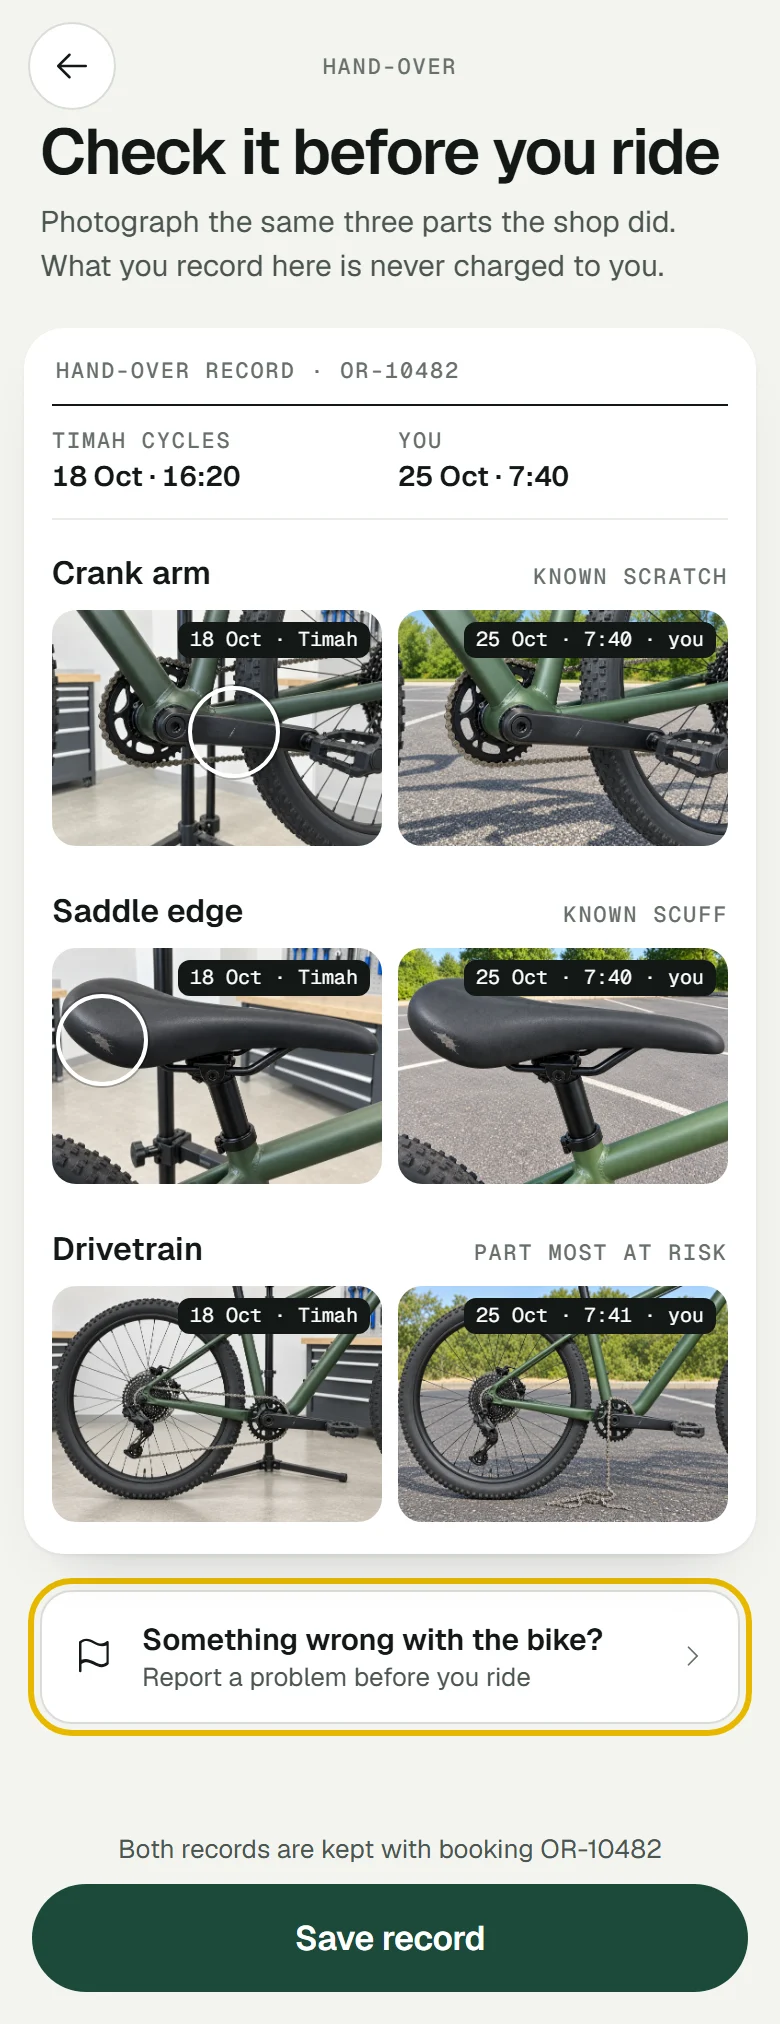
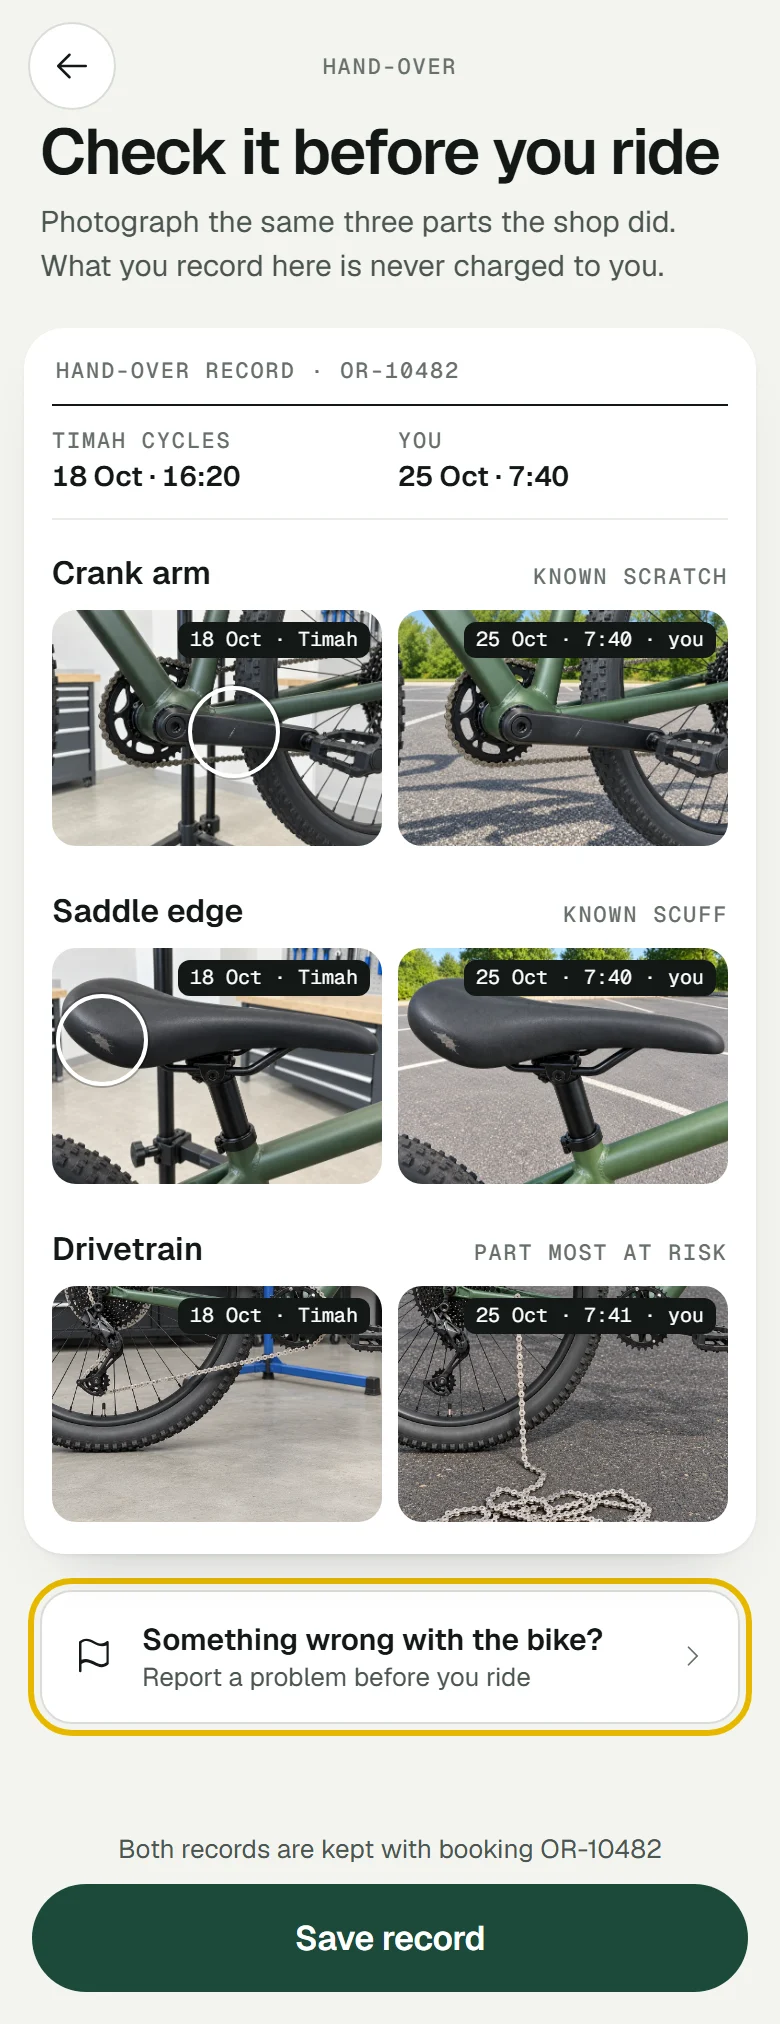
Test site: a drivetrain pair with the chain heap in plain view, hand-cropped for the slots

Changed region(s): [[0.0615, 0.6225, 0.9538, 0.7782]]

diff --git a/app/src/abtest/story.ts b/app/src/abtest/story.ts
@@ -1,10 +1,12 @@
 import { PARTS, type Part, type PartId } from '../pages/11-handover-check/pieces'
 import shopCrank from '@photos/_abtest/assets/shop-crank.webp'
 import shopSaddle from '@photos/_abtest/assets/shop-saddle.webp'
-import shopDrive from '@photos/_abtest/assets/shop-drive.webp'
+import shopDrive from '@photos/_abtest/assets/shop-drive-v2.webp'
 import mineCrank from '@photos/_abtest/assets/mine-crank.webp'
 import mineSaddle from '@photos/_abtest/assets/mine-saddle.webp'
-import mineDrive from '@photos/_abtest/assets/mine-drive.webp'
+import mineDrive from '@photos/_abtest/assets/mine-drive-v2.webp'
+import shopDriveSlot from '@photos/_abtest/assets/shop-drive-v2-slot.webp'
+import mineDriveSlot from '@photos/_abtest/assets/mine-drive-v2-slot.webp'
 import backdrop from '@photos/07-fees-liability/assets/07-direction-backdrop-marlin7.webp'
 import spot from '@photos/06-delivery-return/assets/06-direction-handover-spot.webp'
 import layoutA from '@photos/_abtest/assets/layout-a.webp'
@@ -16,7 +18,8 @@ import layoutB from '@photos/_abtest/assets/layout-b.webp'
 export const BACKDROP = backdrop
 export const SPOT = spot
 // The test's own six photos, made so anyone can read them; the live app keeps its images. Daniel's drivetrain shows the
-// chain off and lying on the ground, which the shop's does not. The rings sit on the shop's scratch and scuff.
+// chain off, in a heap on the ground, which the shop's does not; that pair is portrait 3:4, the others 7:5. The rings sit on
+// the shop's scratch and scuff.
 const OWN: Record<PartId, Partial<Part>> = {
   crank: { shop: shopCrank, mine: mineCrank, shopRing: [55, 52] },
   saddle: { shop: shopSaddle, mine: mineSaddle, shopRing: [15, 39] },
@@ -24,6 +27,9 @@ const OWN: Record<PartId, Partial<Part>> = {
 }
 export const AB_PARTS: Part[] = PARTS.map((p) => ({ ...p, ...OWN[p.id] }))
 export const mineOf = (id: PartId) => AB_PARTS.find((p) => p.id === id)!.mine
+// What the record card and the report thumbnails show. The drivetrain's 7:5 crops were made by hand, so both keep the chain in
+// the slot; its full portrait photos stay for the preview and the viewer.
+export const slotOf = (id: PartId) => (id === 'drive' ? { shop: shopDriveSlot, mine: mineDriveSlot } : { shop: AB_PARTS.find((p) => p.id === id)!.shop, mine: mineOf(id) })
 export const TAKEN: Record<PartId, string> = { crank: '25 Oct · 7:40', saddle: '25 Oct · 7:40', drive: '25 Oct · 7:41' }
 export const CAPTION: Record<PartId, string> = { crank: 'CRANK ARM · 25 OCT · 7:40', saddle: 'SADDLE EDGE · 25 OCT · 7:40', drive: 'DRIVETRAIN · 25 OCT · 7:41' }
 export const SHOP_TAG = '18 Oct · Timah'
@@ -46,7 +52,7 @@ export const LAYOUTS = {
 
 // Every photo the test shows, decoded before it is needed, so the 1.0 s preview starts with the picture on screen.
 export const preload = () => Promise.allSettled(
-  [backdrop, spot, ...AB_PARTS.flatMap((p) => [p.shop, p.mine]), layoutA, layoutB].map((src) => { const i = new Image(); i.src = src; return i.decode() }),
+  [backdrop, spot, ...AB_PARTS.flatMap((p) => [p.shop, p.mine]), shopDriveSlot, mineDriveSlot, layoutA, layoutB].map((src) => { const i = new Image(); i.src = src; return i.decode() }),
 )
 // Waits for a photo, but never for long: a slow decode must not stop the participant from going on.
 export const decoded = (src: string, limit = 1500) => {

diff --git a/app/src/abtest/Screens.tsx b/app/src/abtest/Screens.tsx
@@ -4,7 +4,7 @@ import { Photo } from '../shell/Photo'
 import { BackButton, Mono } from '../shell/direction'
 import { RecordPart, ReportRow, type PartId } from '../pages/11-handover-check/pieces'
 import type { Variant } from './api'
-import { AB_PARTS, AGES, BACKDROP, CAPTION, CYCLING, EVIDENCE_DONE, EVIDENCE_OPEN, FIRST_TAKEN, LAYOUTS, LAYOUT_H, NOTICED, REASONS, RENTED, SENT_FULL, SENT_SHORT, SHOP_TAG, SPOT, TAKEN, mineOf } from './story'
+import { AB_PARTS, AGES, BACKDROP, CAPTION, CYCLING, EVIDENCE_DONE, EVIDENCE_OPEN, FIRST_TAKEN, LAYOUTS, LAYOUT_H, NOTICED, REASONS, RENTED, SENT_FULL, SENT_SHORT, SHOP_TAG, SPOT, TAKEN, mineOf, slotOf } from './story'
 
 // The screens. The app's own copy is as in the flow artifact; what the participant reads outside the app is as in UPDATE 3. No screen reads the store or the router; App.tsx owns the state and the log.
 
@@ -103,7 +103,7 @@ export function HandoverPage({ variant, shots, sent, linkRef, scrollRef, onTake,
           </div>
           <div className="parts">
             {AB_PARTS.map((p) => (
-              <RecordPart key={p.id} p={p} shot={shots.includes(p.id)} when={TAKEN[p.id]} eager mine={mineOf(p.id)}
+              <RecordPart key={p.id} p={{ ...p, shop: slotOf(p.id).shop }} shot={shots.includes(p.id)} when={TAKEN[p.id]} eager mine={slotOf(p.id).mine}
                 onTake={(el) => { if (shots.includes(p.id)) onView({ part: p.id, who: 'you' }, el); else onTake(p.id) }}
                 shopTag={<>
                   <span className="ab-tag">{SHOP_TAG}</span>
@@ -131,7 +131,7 @@ export function Camera({ part, retakes, onRetake, onUse }: { part: PartId; retak
   return (
     <div className="ab-camera" data-log="camera" role="dialog" aria-modal="true" aria-label={CAPTION[part]}>
       <span className="ab-camera-cap">{CAPTION[part]}</span>
-      <div key={retakes} className={`ab-camera-photo${retakes ? ' is-again' : ''}`}>
+      <div key={retakes} className={`ab-camera-photo${retakes ? ' is-again' : ''}${part === 'drive' ? ' is-drive' : ''}`}>
         <Photo src={mineOf(part)} alt={`Your photo of the ${AB_PARTS.find((p) => p.id === part)!.name.toLowerCase()}`} width={390} height={278} first />
       </div>
       <div className="ab-camera-bar">
@@ -201,7 +201,7 @@ export function ReportForm({ shots, reason, photos, details, onBack, onReason, o
           <div className="ab-thumbs" role="group" aria-labelledby="ab-photos">
             {AB_PARTS.filter((p) => shots.includes(p.id)).map((p) => (
               <button key={p.id} type="button" className="ab-thumb" data-log={`thumb:${p.id}`} aria-pressed={photos.includes(p.id)} aria-label={`Attach your photo of the ${p.name.toLowerCase()}`} onClick={() => onTogglePhoto(p.id)}>
-                <Photo src={mineOf(p.id)} alt="" width={64} height={48} first />
+                <Photo src={slotOf(p.id).mine} alt="" width={64} height={48} first />
               </button>
             ))}
             <button type="button" className="ab-thumb ab-add" data-log="add-photo" aria-label="Add a photo" onClick={() => undefined}><Icon name="plus" /></button>

diff --git a/app/src/abtest/abtest.css b/app/src/abtest/abtest.css
@@ -45,9 +45,13 @@ body { background: var(--desk); font-family: var(--font); color: var(--ink); -we
 .ab-camera-cap { padding: calc(var(--top-safe) + 20px) var(--s-4) var(--s-4); font-family: var(--mono); font-size: var(--fs-mono); line-height: var(--lh-mono); letter-spacing: var(--track-label); text-align: center; }
 .ab-camera-photo { position: relative; flex: 1; min-height: 0; }
 .ab-camera-photo .photo { position: absolute; inset: 0; width: 100%; height: 100%; object-fit: contain; }
+/* The drivetrain's preview is portrait, with the chain low in Daniel's photo: this crop keeps it in view at every size. */
+.ab-camera-photo.is-drive .photo { object-fit: cover; object-position: 50% 70%; }
 .ab-camera-photo.is-again { animation: ab-again var(--t-quick) var(--ease); }
 @keyframes ab-again { from { opacity: 0.2; } to { opacity: 1; } }
-@media (prefers-reduced-motion: reduce) { .ab-camera-photo.is-again { animation: none; } }
+@media (prefers-reduced-motion: reduce) { /* The drivetrain's preview is portrait, with the chain low in Daniel's photo: this crop keeps it in view at every size. */
+.ab-camera-photo.is-drive .photo { object-fit: cover; object-position: 50% 70%; }
+.ab-camera-photo.is-again { animation: none; } }
 .ab-camera-bar { display: grid; grid-template-columns: 1fr auto 1fr; align-items: center; gap: var(--s-6); height: 120px; padding: 0 var(--s-6) env(safe-area-inset-bottom); text-align: center; }
 .ab-camera-bar button { min-height: var(--touch); padding: 0; border: 0; background: none; color: var(--white); font: inherit; font-size: var(--fs-callout); cursor: pointer; }
 .ab-camera-bar button.is-use { font-weight: 600; }
